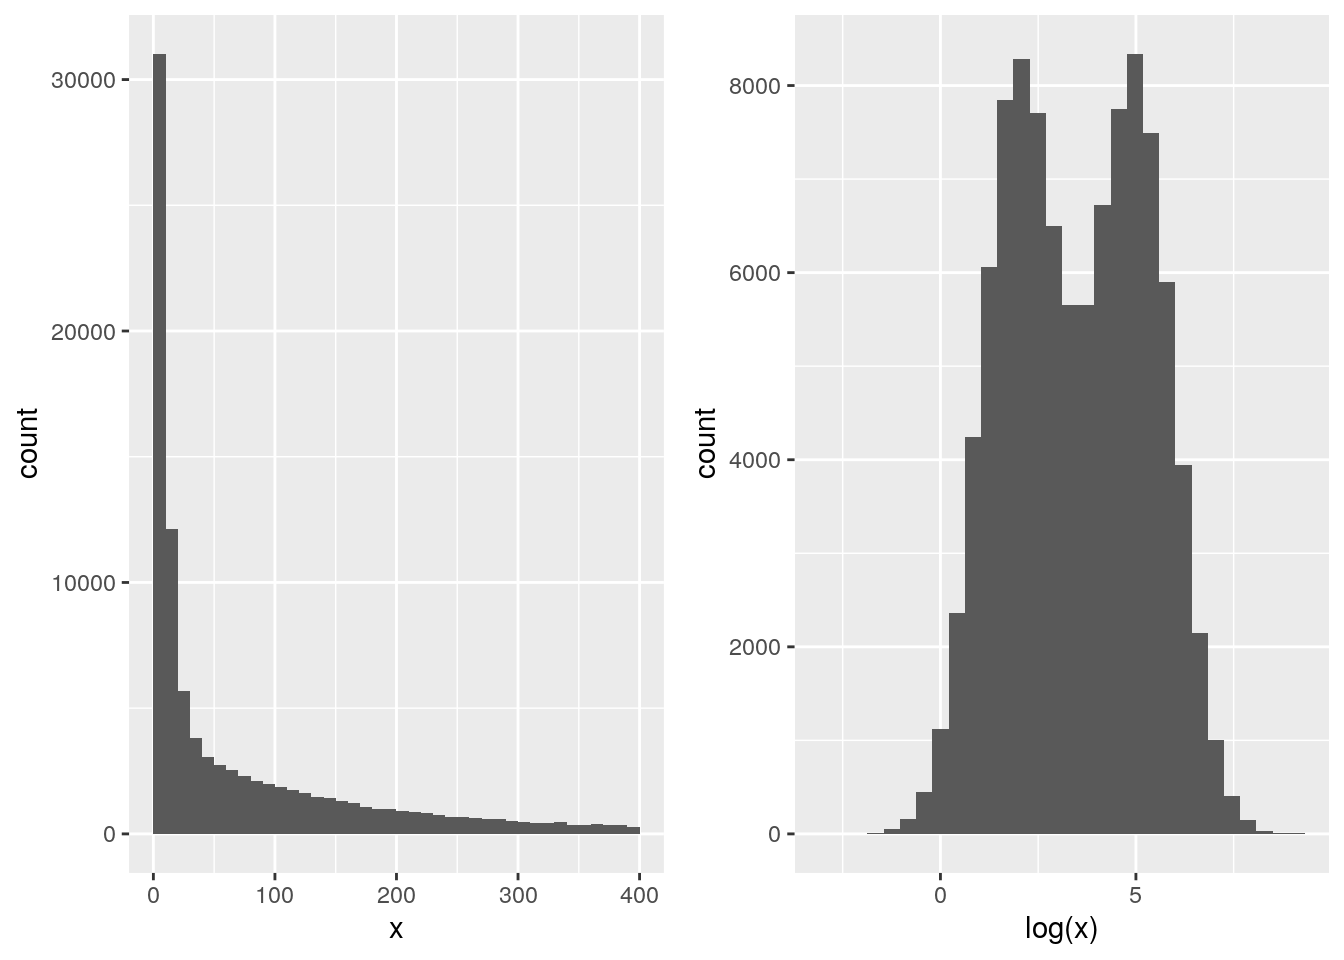
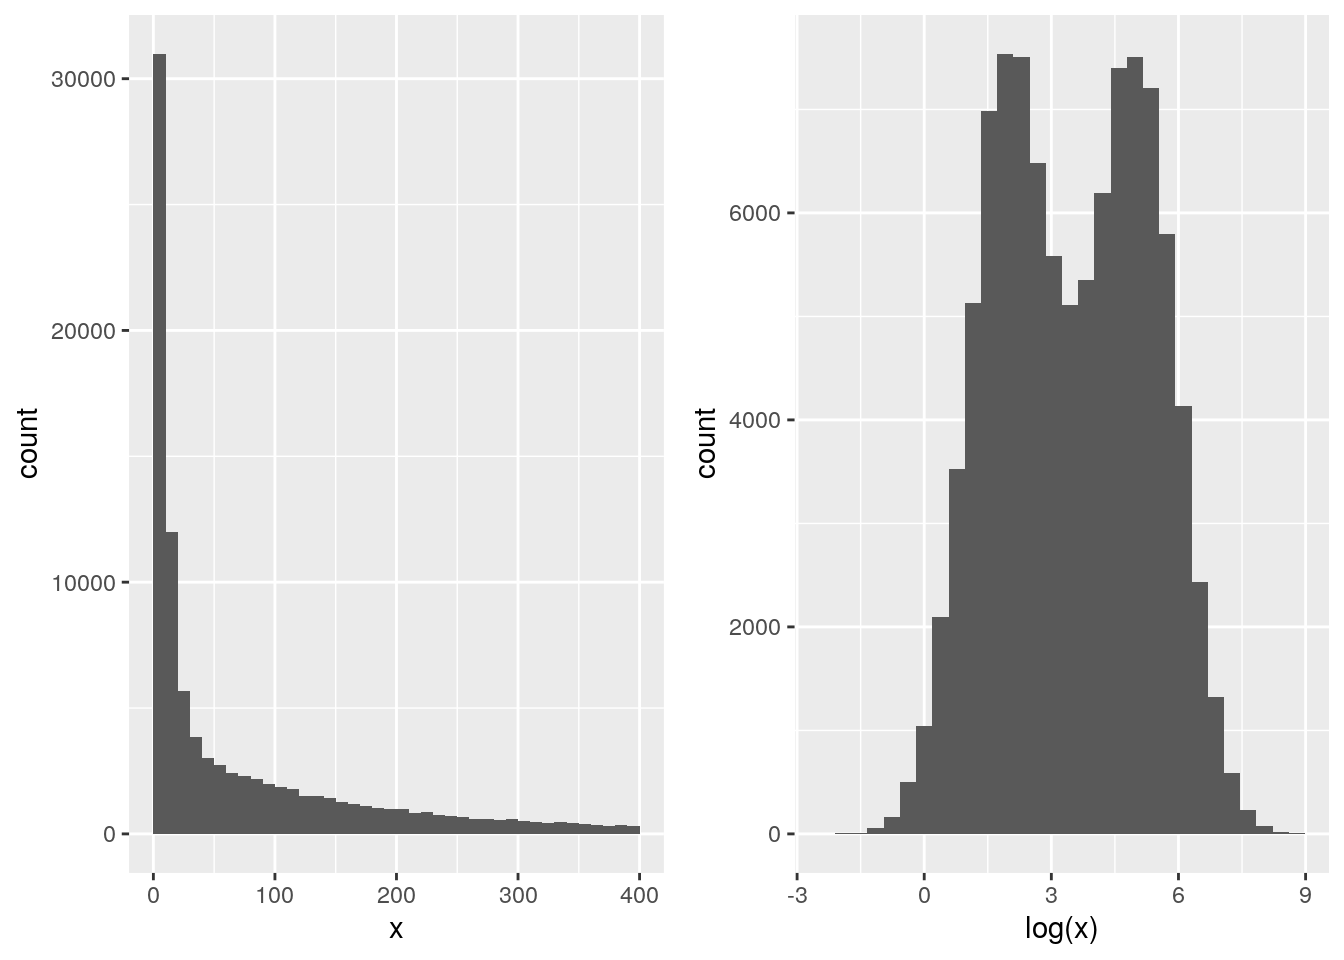
uml chapter - from intro ml r

diff --git a/docs/sec-ul.html b/docs/sec-ul.html
@@ -121,6 +121,7 @@ code > span.in { color: #60a0b0; font-weight: bold; font-style: italic; } /* Inf
 <li class="toc"><a href="#pre-processing"> Pre-processing</a></li>
 <li class="toc"><a href="#principal-component-analysis-pca"> Principal component analysis (PCA)</a></li>
 <li class="toc"><a href="#t-distributed-stochastic-neighbour-embedding"> t-Distributed Stochastic Neighbour Embedding</a></li>
+<li class="toc"><a href="#additional-exercises-6"> Additional exercises</a></li>
 </ul>
 <a href="sec-dimred.html"><span class="toc-section-number">9</span> Dimensionality reduction</a>
 <a href="sec-sl.html"><span class="toc-section-number">10</span> Supervised learning</a>
@@ -144,13 +145,18 @@ code > span.in { color: #60a0b0; font-weight: bold; font-style: italic; } /* Inf
 <span class="header-section-number">8.1</span> Introduction</h2>
 <p>In <strong>unsupervised learning</strong> (UML), no labels are provided, and the learning algorithm focuses solely on detecting structure in unlabelled input data. One generally differentiates between</p>
 <ul>
-<li><p><strong>Clustering</strong>, where the goal is to find homogeneous subgroups within the data; the grouping is based on distance between observations.</p></li>
-<li><p><strong>Dimensionality reduction</strong>, where the goal is to identify patterns in the features of the data. Dimensionality reduction is often used to facilitate visualisation of the data, as well as a pre-processing method before supervised learning.</p></li>
+<li>
+<strong>Clustering</strong>, where the goal is to find homogeneous subgroups within the data; the grouping is based on similiarities (or distance) between observations. The result of a clustering algorithm is to group the observations (features) into distinct (generally non-overlapping) groups. These groups are, even of imperfect (i.e. ignoring intermediate states) are often very useful in interpretation and assessment of the data.</li>
+</ul>
+<p>There is however one important caveat with clustering: clustering algorithms will always find clusters, even when none exists. See the additional exercise for an illustration of this risk.</p>
+<ul>
+<li>
+<strong>Dimensionality reduction</strong>, where the goal is to summarise the data in a reduced number of dimensations, i.e. using a reduced number of (newly computer) variables. A typical example in omics is to summarise (and visualise) the relation between samples along two dimensions (which can easily be plotted) even if the data consists of tens of thousands of dimensions ( genes). Dimensionality reduction is often used to facilitate visualisation of the data, as well as a pre-processing method before supervised learning.</li>
 </ul>
 <p>UML presents specific challenges and benefits:</p>
 <ul>
-<li>there is no single goal in UML</li>
-<li>there is generally much more unlabelled data available than labelled data.</li>
+<li>Challenge: there is no single goal in UML</li>
+<li>Benefit: there is generally much more unlabelled data available than labelled data.</li>
 </ul>
 </div>
 <div id="k-means-clustering" class="section level2">
@@ -625,8 +631,23 @@ iristsne &lt;-<span class="st"> </span><span class="kw">Rtsne</span>(uiris[, <sp
 <div class="figure">
 <img src="https://raw.githubusercontent.com/lgatto/visualisation/master/figure/tsneex-1.png" alt="PCA and t-SNE on hyperLOPIT"><p class="caption">PCA and t-SNE on hyperLOPIT</p>
 </div>
-
 </div>
+</div>
+<div id="additional-exercises-6" class="section level2">
+<h2>
+<span class="header-section-number">8.7</span> Additional exercises</h2>
+<div class="question">
+<p class="question-begin">
+► Question
+</p>
+<div class="question-body">
+<p>An important caveat of clustering is that a clustering algorithm such as <em>k-means</em> will always find clusters, even when there is none. Illustrate this by creating a 2-dimensional random data by generation a matrix of 100 rows and 2 columns from <em>N(0, 1)</em> and searching for 2, 3, 4, 5 and 6 cluster. Visualise these results and assess whether they look convincing or not.</p>
+<p class="question-end">
+<span class="fa fa-square-o solution-icon"></span>
+</p>
+</div>
+</div>
+
 </div>
 </div></body></html>
 

diff --git a/docs/sec-vis.html b/docs/sec-vis.html
@@ -720,7 +720,7 @@ p1 &lt;-<span class="st">  </span><span class="kw">ggplot</span>(sim, <span clas
 p2 &lt;-<span class="st">  </span><span class="kw">ggplot</span>(sim, <span class="kw">aes</span>(<span class="kw">log</span>(x))) <span class="op">+</span>
 <span class="st">    </span><span class="kw">geom_histogram</span>(<span class="dt">bins =</span> <span class="dv">30</span>)
 p1 <span class="op">+</span><span class="st"> </span>p2</code></pre></div>
-<pre><code>## Warning: Removed 7892 rows containing non-finite values (stat_bin).</code></pre>
+<pre><code>## Warning: Removed 7978 rows containing non-finite values (stat_bin).</code></pre>
 <div class="figure">
 <span id="fig:sim"></span>
 <p class="caption marginnote shownote">
